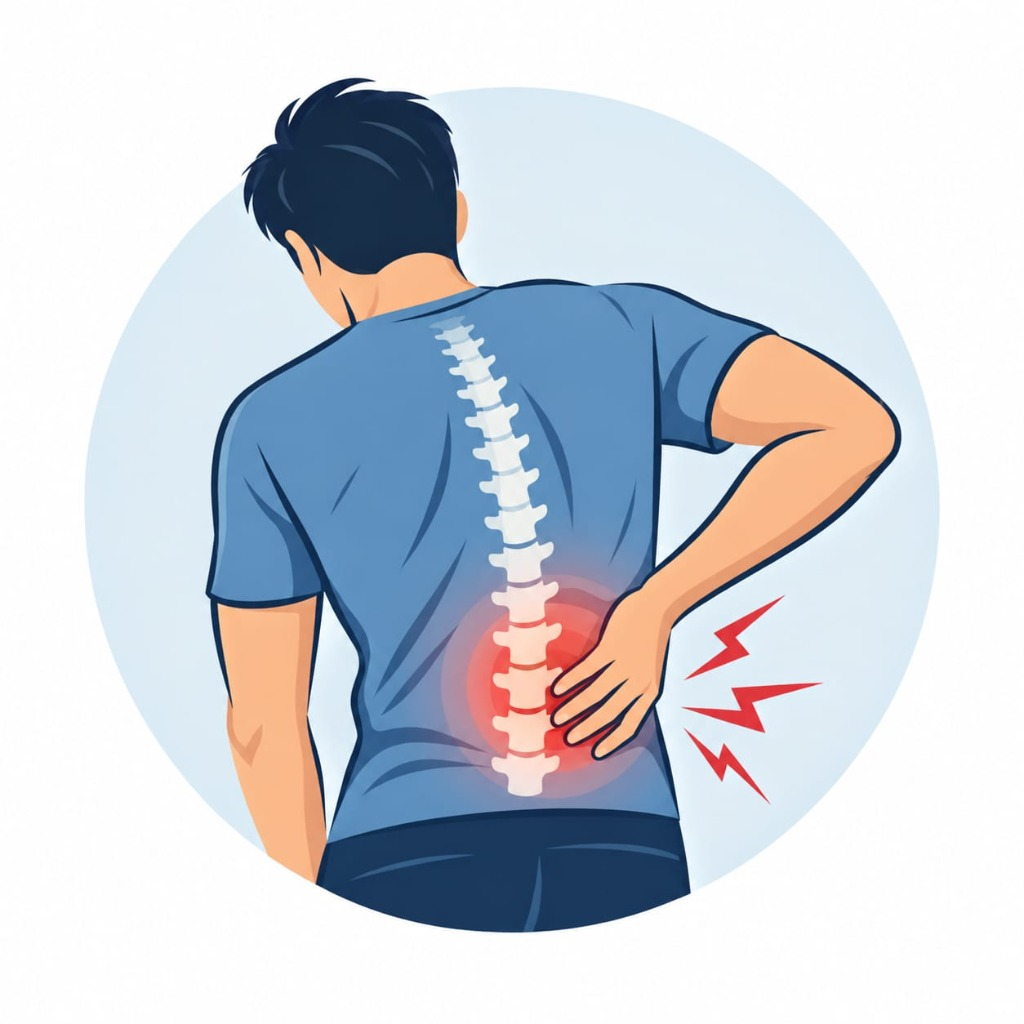
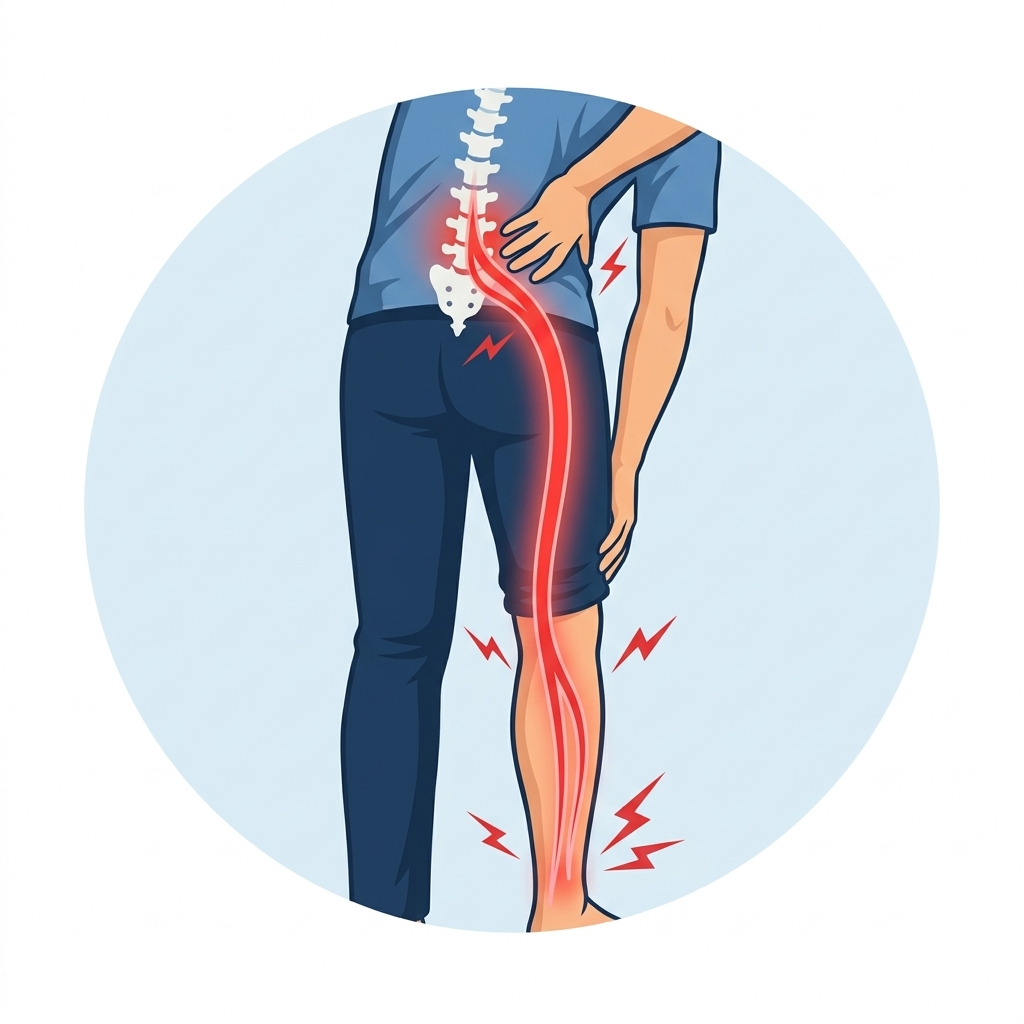
fix error in ui

diff --git a/backend/frontend/index.html b/backend/frontend/index.html
@@ -2002,7 +2002,7 @@
             justify-content: center;
             transition: 0.2s ease;
         }
-        
+
         .bento-card:hover .bento-arrow-btn {
             background: var(--gold);
         }
@@ -2020,7 +2020,7 @@
             stroke: var(--white);
             stroke-width: 2;
         }
-        
+
         .bento-card.large .bento-arrow-btn svg {
             width: 24px;
             height: 24px;
@@ -2111,7 +2111,7 @@
             width: 32px;
             height: 32px;
         }
-        
+
         .bento-card.medium .bento-arrow-btn svg,
         .bento-card.small .bento-arrow-btn svg {
             width: 16px;
@@ -3820,50 +3820,48 @@
             </div>
         </section>
 
-        <!-- CITIES -->
-        <section class="section">
-            <div class="container">
-                <div class="section-head">
-                    <span class="eyebrow">UK-wide coverage</span>
-                    <h2>Home Physio in Your City</h2>
-                    <p>Professional physiotherapy across major UK cities.</p>
-                </div>
-                <div class="link-grid">
-                    <a class="link-card" href="booking/index.html"><span>London</span><span>→</span></a>
-                    <a class="link-card" href="booking/index.html"><span>Birmingham</span><span>→</span></a>
-                    <a class="link-card" href="booking/index.html"><span>Edinburgh</span><span>→</span></a>
-                    <a class="link-card" href="booking/index.html"><span>Glasgow</span><span>→</span></a>
-                </div>
-            </div>
-        </section>
-
         <!-- CONDITIONS -->
         <section class="section" id="conditions"
             style="position: relative; overflow: hidden; background: var(--navy); color: var(--white); padding: 100px 0;">
             <!-- Abstract background shapes -->
-            <div style="position: absolute; right: 0; top: 0; width: 100%; height: 100%; z-index: 0; pointer-events: none;">
+            <div
+                style="position: absolute; right: 0; top: 0; width: 100%; height: 100%; z-index: 0; pointer-events: none;">
                 <!-- Large green wave bottom left -->
-                <svg viewBox="0 0 1440 600" preserveAspectRatio="none" style="position: absolute; bottom: -50px; left: 0; width: 120%; height: 120%; opacity: 0.15;">
-                    <path fill="var(--sage)" d="M0,600 C300,400 400,600 720,500 C1040,400 1200,600 1440,300 L1440,600 L0,600 Z"></path>
-                    <path fill="var(--cream)" d="M0,600 C400,450 600,600 960,400 C1200,250 1350,550 1440,450 L1440,600 L0,600 Z" opacity="0.1"></path>
+                <svg viewBox="0 0 1440 600" preserveAspectRatio="none"
+                    style="position: absolute; bottom: -50px; left: 0; width: 120%; height: 120%; opacity: 0.15;">
+                    <path fill="var(--sage)"
+                        d="M0,600 C300,400 400,600 720,500 C1040,400 1200,600 1440,300 L1440,600 L0,600 Z"></path>
+                    <path fill="var(--cream)"
+                        d="M0,600 C400,450 600,600 960,400 C1200,250 1350,550 1440,450 L1440,600 L0,600 Z"
+                        opacity="0.1"></path>
                 </svg>
                 <!-- Large green wave top right -->
-                <svg viewBox="0 0 1440 600" preserveAspectRatio="none" style="position: absolute; top: -150px; right: -200px; width: 100%; height: 100%; opacity: 0.15; transform: scaleX(-1);">
-                    <path fill="var(--sage)" d="M0,0 C300,200 400,0 720,100 C1040,200 1200,0 1440,300 L1440,0 L0,0 Z"></path>
+                <svg viewBox="0 0 1440 600" preserveAspectRatio="none"
+                    style="position: absolute; top: -150px; right: -200px; width: 100%; height: 100%; opacity: 0.15; transform: scaleX(-1);">
+                    <path fill="var(--sage)" d="M0,0 C300,200 400,0 720,100 C1040,200 1200,0 1440,300 L1440,0 L0,0 Z">
+                    </path>
                 </svg>
-                
+
                 <!-- Gold floral art top right -->
-                <svg width="250" height="250" viewBox="0 0 100 100" style="position: absolute; top: 50px; right: 50px; opacity: 0.4;">
-                    <path d="M90 10 Q70 20 60 40 Q50 60 30 70 M60 40 Q75 30 80 50 M55 50 Q45 35 30 40" fill="none" stroke="var(--gold)" stroke-width="0.5" stroke-linecap="round" />
-                    <path d="M90 10 C85 0 70 5 60 40 C75 35 90 20 90 10 Z" fill="none" stroke="var(--gold)" stroke-width="0.5" />
-                    <path d="M60 40 C65 25 80 30 80 50 C75 45 65 45 60 40 Z" fill="none" stroke="var(--gold)" stroke-width="0.5" />
-                    <path d="M55 50 C45 30 30 35 30 40 C40 45 50 55 55 50 Z" fill="none" stroke="var(--gold)" stroke-width="0.5" />
+                <svg width="250" height="250" viewBox="0 0 100 100"
+                    style="position: absolute; top: 50px; right: 50px; opacity: 0.4;">
+                    <path d="M90 10 Q70 20 60 40 Q50 60 30 70 M60 40 Q75 30 80 50 M55 50 Q45 35 30 40" fill="none"
+                        stroke="var(--gold)" stroke-width="0.5" stroke-linecap="round" />
+                    <path d="M90 10 C85 0 70 5 60 40 C75 35 90 20 90 10 Z" fill="none" stroke="var(--gold)"
+                        stroke-width="0.5" />
+                    <path d="M60 40 C65 25 80 30 80 50 C75 45 65 45 60 40 Z" fill="none" stroke="var(--gold)"
+                        stroke-width="0.5" />
+                    <path d="M55 50 C45 30 30 35 30 40 C40 45 50 55 55 50 Z" fill="none" stroke="var(--gold)"
+                        stroke-width="0.5" />
                 </svg>
-                
+
                 <!-- Gold floral art bottom left -->
-                <svg width="250" height="250" viewBox="0 0 100 100" style="position: absolute; bottom: 0; left: 0; opacity: 0.4; transform: scale(-1, 1) rotate(45deg);">
-                    <path d="M90 10 Q70 20 60 40 Q50 60 30 70" fill="none" stroke="var(--gold)" stroke-width="0.5" stroke-linecap="round" />
-                    <path d="M90 10 C85 0 70 5 60 40 C75 35 90 20 90 10 Z" fill="none" stroke="var(--gold)" stroke-width="0.5" />
+                <svg width="250" height="250" viewBox="0 0 100 100"
+                    style="position: absolute; bottom: 0; left: 0; opacity: 0.4; transform: scale(-1, 1) rotate(45deg);">
+                    <path d="M90 10 Q70 20 60 40 Q50 60 30 70" fill="none" stroke="var(--gold)" stroke-width="0.5"
+                        stroke-linecap="round" />
+                    <path d="M90 10 C85 0 70 5 60 40 C75 35 90 20 90 10 Z" fill="none" stroke="var(--gold)"
+                        stroke-width="0.5" />
                 </svg>
             </div>
 
@@ -3875,7 +3873,8 @@
                         <div class="gold-line-side"></div>
                     </div>
                     <h2>From Pain to Progress</h2>
-                    <p>Expert treatment for every stage of recovery.<br>Evidence-based physiotherapy, delivered in the comfort of your home.</p>
+                    <p>Expert treatment for every stage of recovery.<br>Evidence-based physiotherapy, delivered in the
+                        comfort of your home.</p>
                 </div>
 
                 <div class="conditions-bento">
@@ -3884,36 +3883,45 @@
                         <a href="booking/index.html" class="bento-card large">
                             <div class="bento-icon-bg"></div>
                             <div class="bento-icon">
-                                <img src="images/conditions/back-pain.jpg" alt="Back Pain" style="width: 100%; height: 100%; border-radius: 50%; object-fit: cover;">
+                                <img src="images/conditions/back-pain.jpg" alt="Back Pain"
+                                    style="width: 100%; height: 100%; border-radius: 50%; object-fit: cover;">
                             </div>
                             <h3>Back Pain</h3>
                             <div class="learn-more">Learn more &rarr;</div>
-                            <div class="bento-arrow-btn"><svg viewBox="0 0 24 24"><path d="M5 12h14M12 5l7 7-7 7" fill="none"/></svg></div>
+                            <div class="bento-arrow-btn"><svg viewBox="0 0 24 24">
+                                    <path d="M5 12h14M12 5l7 7-7 7" fill="none" />
+                                </svg></div>
                         </a>
 
                         <div class="bento-middle-col">
                             <!-- POST-SURGERY -->
                             <a href="booking/index.html" class="bento-card medium">
                                 <div class="bento-icon">
-                                    <img src="images/conditions/post-surgery.jpg" alt="Post Surgery" style="width: 100%; height: 100%; border-radius: 50%; object-fit: cover;">
+                                    <img src="images/conditions/post-surgery.jpg" alt="Post Surgery"
+                                        style="width: 100%; height: 100%; border-radius: 50%; object-fit: cover;">
                                 </div>
                                 <div class="bento-text">
                                     <h3>Post-Surgery<br>Recovery</h3>
                                     <div class="learn-more">Learn more &rarr;</div>
                                 </div>
-                                <div class="bento-arrow-btn"><svg viewBox="0 0 24 24"><path d="M5 12h14M12 5l7 7-7 7" fill="none"/></svg></div>
+                                <div class="bento-arrow-btn"><svg viewBox="0 0 24 24">
+                                        <path d="M5 12h14M12 5l7 7-7 7" fill="none" />
+                                    </svg></div>
                             </a>
 
                             <!-- SPORTS INJURY -->
                             <a href="booking/index.html" class="bento-card medium">
                                 <div class="bento-icon">
-                                    <img src="images/conditions/sports-injury.jpg" alt="Sports Injury" style="width: 100%; height: 100%; border-radius: 50%; object-fit: cover;">
+                                    <img src="images/conditions/sports-injury.jpg" alt="Sports Injury"
+                                        style="width: 100%; height: 100%; border-radius: 50%; object-fit: cover;">
                                 </div>
                                 <div class="bento-text">
                                     <h3>Sports Injury</h3>
                                     <div class="learn-more">Learn more &rarr;</div>
                                 </div>
-                                <div class="bento-arrow-btn"><svg viewBox="0 0 24 24"><path d="M5 12h14M12 5l7 7-7 7" fill="none"/></svg></div>
+                                <div class="bento-arrow-btn"><svg viewBox="0 0 24 24">
+                                        <path d="M5 12h14M12 5l7 7-7 7" fill="none" />
+                                    </svg></div>
                             </a>
                         </div>
 
@@ -3921,11 +3929,14 @@
                         <a href="booking/index.html" class="bento-card large">
                             <div class="bento-icon-bg"></div>
                             <div class="bento-icon">
-                                <img src="images/conditions/stroke-rehab.jpg" alt="Stroke Rehab" style="width: 100%; height: 100%; border-radius: 50%; object-fit: cover;">
+                                <img src="images/conditions/stroke-rehab.jpg" alt="Stroke Rehab"
+                                    style="width: 100%; height: 100%; border-radius: 50%; object-fit: cover;">
                             </div>
                             <h3>Stroke Rehabilitation</h3>
                             <div class="learn-more">Learn more &rarr;</div>
-                            <div class="bento-arrow-btn"><svg viewBox="0 0 24 24"><path d="M5 12h14M12 5l7 7-7 7" fill="none"/></svg></div>
+                            <div class="bento-arrow-btn"><svg viewBox="0 0 24 24">
+                                    <path d="M5 12h14M12 5l7 7-7 7" fill="none" />
+                                </svg></div>
                         </a>
                     </div>
 
@@ -3933,49 +3944,61 @@
                         <!-- KNEE PAIN -->
                         <a href="booking/index.html" class="bento-card small">
                             <div class="bento-icon">
-                                <img src="images/conditions/knee-pain.jpg" alt="Knee Pain" style="width: 100%; height: 100%; border-radius: 50%; object-fit: cover;">
+                                <img src="images/conditions/knee-pain.jpg" alt="Knee Pain"
+                                    style="width: 100%; height: 100%; border-radius: 50%; object-fit: cover;">
                             </div>
                             <div class="bento-text">
                                 <h3>Knee Pain</h3>
                                 <div class="learn-more">Learn more &rarr;</div>
                             </div>
-                            <div class="bento-arrow-btn"><svg viewBox="0 0 24 24"><path d="M5 12h14M12 5l7 7-7 7" fill="none"/></svg></div>
+                            <div class="bento-arrow-btn"><svg viewBox="0 0 24 24">
+                                    <path d="M5 12h14M12 5l7 7-7 7" fill="none" />
+                                </svg></div>
                         </a>
 
                         <!-- SHOULDER PAIN -->
                         <a href="booking/index.html" class="bento-card small">
                             <div class="bento-icon">
-                                <img src="images/conditions/shoulder-pain.jpg" alt="Shoulder Pain" style="width: 100%; height: 100%; border-radius: 50%; object-fit: cover;">
+                                <img src="images/conditions/shoulder-pain.jpg" alt="Shoulder Pain"
+                                    style="width: 100%; height: 100%; border-radius: 50%; object-fit: cover;">
                             </div>
                             <div class="bento-text">
                                 <h3>Shoulder Pain</h3>
                                 <div class="learn-more">Learn more &rarr;</div>
                             </div>
-                            <div class="bento-arrow-btn"><svg viewBox="0 0 24 24"><path d="M5 12h14M12 5l7 7-7 7" fill="none"/></svg></div>
+                            <div class="bento-arrow-btn"><svg viewBox="0 0 24 24">
+                                    <path d="M5 12h14M12 5l7 7-7 7" fill="none" />
+                                </svg></div>
                         </a>
 
                         <!-- NECK PAIN -->
                         <a href="booking/index.html" class="bento-card small">
                             <div class="bento-icon">
-                                <img src="images/conditions/neck-pain.jpg" alt="Neck Pain" style="width: 100%; height: 100%; border-radius: 50%; object-fit: cover;">
+                                <img src="images/conditions/neck-pain.jpg" alt="Neck Pain"
+                                    style="width: 100%; height: 100%; border-radius: 50%; object-fit: cover;">
                             </div>
                             <div class="bento-text">
                                 <h3>Neck Pain</h3>
                                 <div class="learn-more">Learn more &rarr;</div>
                             </div>
-                            <div class="bento-arrow-btn"><svg viewBox="0 0 24 24"><path d="M5 12h14M12 5l7 7-7 7" fill="none"/></svg></div>
+                            <div class="bento-arrow-btn"><svg viewBox="0 0 24 24">
+                                    <path d="M5 12h14M12 5l7 7-7 7" fill="none" />
+                                </svg></div>
                         </a>
 
                         <!-- SCIATICA -->
                         <a href="booking/index.html" class="bento-card small">
                             <div class="bento-icon">
-                                <img src="images/conditions/sciatica.jpg" alt="Sciatica" style="width: 100%; height: 100%; border-radius: 50%; object-fit: cover;">
+                                <img src="images/conditions/sciatica.jpg" alt="Sciatica"
+                                    style="width: 100%; height: 100%; border-radius: 50%; object-fit: cover;">
                             </div>
                             <div class="bento-text">
                                 <h3>Sciatica</h3>
                                 <div class="learn-more">Learn more &rarr;</div>
                             </div>
-                            <div class="bento-arrow-btn"><svg viewBox="0 0 24 24"><path d="M5 12h14M12 5l7 7-7 7" fill="none"/></svg></div>
+                            <div class="bento-arrow-btn"><svg viewBox="0 0 24 24">
+                                    <path d="M5 12h14M12 5l7 7-7 7" fill="none" />
+                                </svg></div>
                         </a>
                     </div>
                 </div>
@@ -4286,49 +4309,50 @@
                     <div class="contact-card">
                         <strong>Contact NEXmove Physio</strong>
                         <a href="tel:+447393107245">☎ +44 7393 107245</a>
-                        <a href="mailto:hello@nexmovephysio.co.uk">✉ hello@nexmovephysio.co.uk</a>
+                        <a href="mailto:hello.nexmovephysio@gmail.com">✉
+                            hello@nexmovephysio.co.ukhello.nexmovephysio@gmail.com
                     </div>
+
+                    <form class="booking-form" id="bookingForm">
+                        <div class="form-grid">
+                            <div id="formMessage" class="form-message" style="display:none"></div>
+                            <div class="field"><label for="name">Full Name *</label><input id="name" name="name"
+                                    required>
+                            </div>
+                            <div class="field"><label for="phone">Phone *</label><input id="phone" name="phone"
+                                    type="tel" required></div>
+                            <div class="field"><label for="email">Email *</label><input id="email" name="email"
+                                    type="email" required></div>
+                            <div class="field"><label for="city">City *</label>
+                                <select id="city" name="city" required>
+                                    <option value="">Select city</option>
+                                    <option>London</option>
+                                    <option>Birmingham</option>
+                                    <option>Edinburgh</option>
+                                    <option>Glasgow</option>
+                                </select>
+                            </div>
+                            <div class="field"><label for="condition">Condition / Service *</label>
+                                <select id="condition" name="condition" required>
+                                    <option value="">Select condition or service...</option>
+                                    <!-- Populated dynamically via JS -->
+                                </select>
+                            </div>
+                            <div class="field"><label for="preferred_date">Preferred Date</label><input
+                                    id="preferred_date" name="preferred_date" type="date"></div>
+                            <div class="field full"><label for="notes">Additional Notes</label><textarea id="notes"
+                                    name="notes"
+                                    placeholder="Tell us briefly about your symptoms or rehabilitation needs..."></textarea>
+                            </div>
+
+                            <div class="form-actions">
+                                <button class="btn btn-primary" type="submit">Send Booking Request</button>
+                                <button class="btn btn-green" type="button" onclick="bookWhatsApp()">Book via
+                                    WhatsApp</button>
+                            </div>
+                        </div>
+                    </form>
                 </div>
-
-                <form class="booking-form" id="bookingForm">
-                    <div class="form-grid">
-                        <div id="formMessage" class="form-message" style="display:none"></div>
-                        <div class="field"><label for="name">Full Name *</label><input id="name" name="name" required>
-                        </div>
-                        <div class="field"><label for="phone">Phone *</label><input id="phone" name="phone" type="tel"
-                                required></div>
-                        <div class="field"><label for="email">Email *</label><input id="email" name="email" type="email"
-                                required></div>
-                        <div class="field"><label for="city">City *</label>
-                            <select id="city" name="city" required>
-                                <option value="">Select city</option>
-                                <option>London</option>
-                                <option>Birmingham</option>
-                                <option>Edinburgh</option>
-                                <option>Glasgow</option>
-                            </select>
-                        </div>
-                        <div class="field"><label for="condition">Condition / Service *</label>
-                            <select id="condition" name="condition" required>
-                                <option value="">Select condition or service...</option>
-                                <!-- Populated dynamically via JS -->
-                            </select>
-                        </div>
-                        <div class="field"><label for="preferred_date">Preferred Date</label><input id="preferred_date"
-                                name="preferred_date" type="date"></div>
-                        <div class="field full"><label for="notes">Additional Notes</label><textarea id="notes"
-                                name="notes"
-                                placeholder="Tell us briefly about your symptoms or rehabilitation needs..."></textarea>
-                        </div>
-
-                        <div class="form-actions">
-                            <button class="btn btn-primary" type="submit">Send Booking Request</button>
-                            <button class="btn btn-green" type="button" onclick="bookWhatsApp()">Book via
-                                WhatsApp</button>
-                        </div>
-                    </div>
-                </form>
-            </div>
         </section>
 
         <!-- FINAL CTA -->
